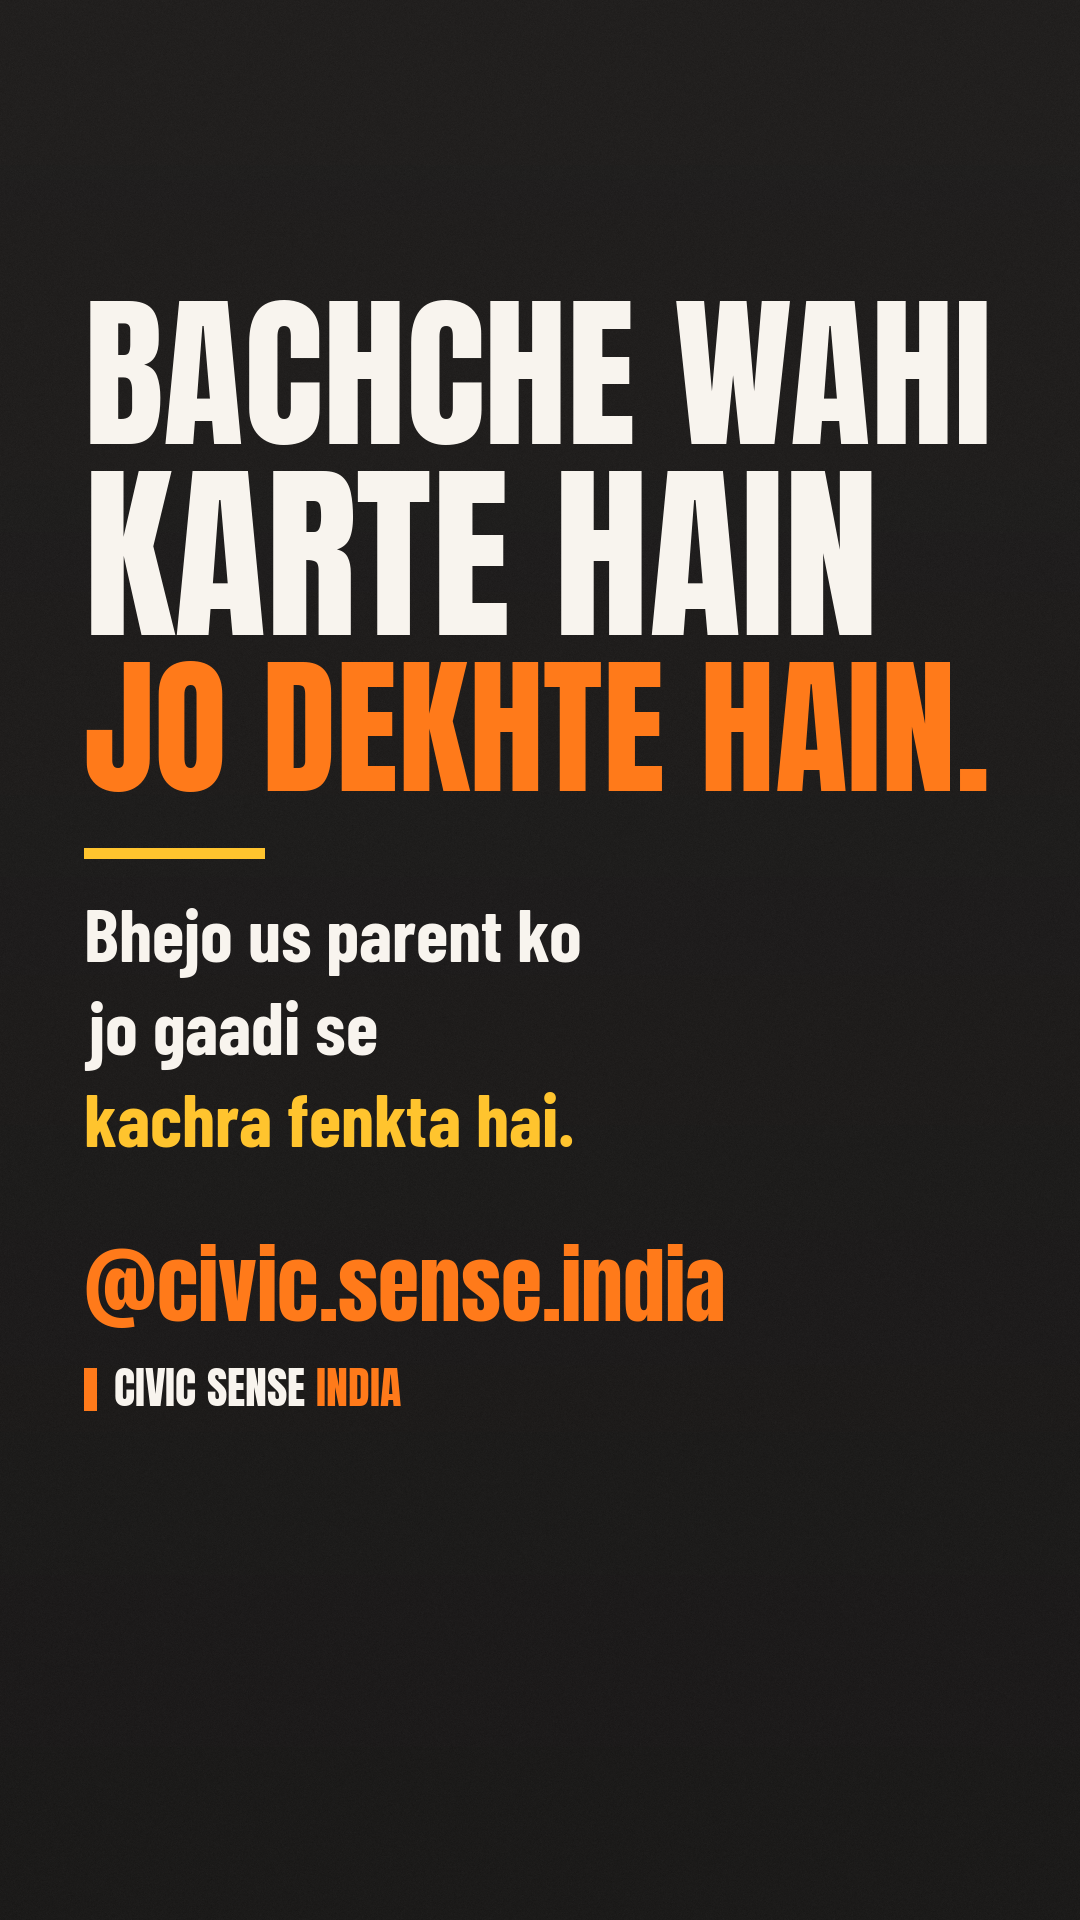
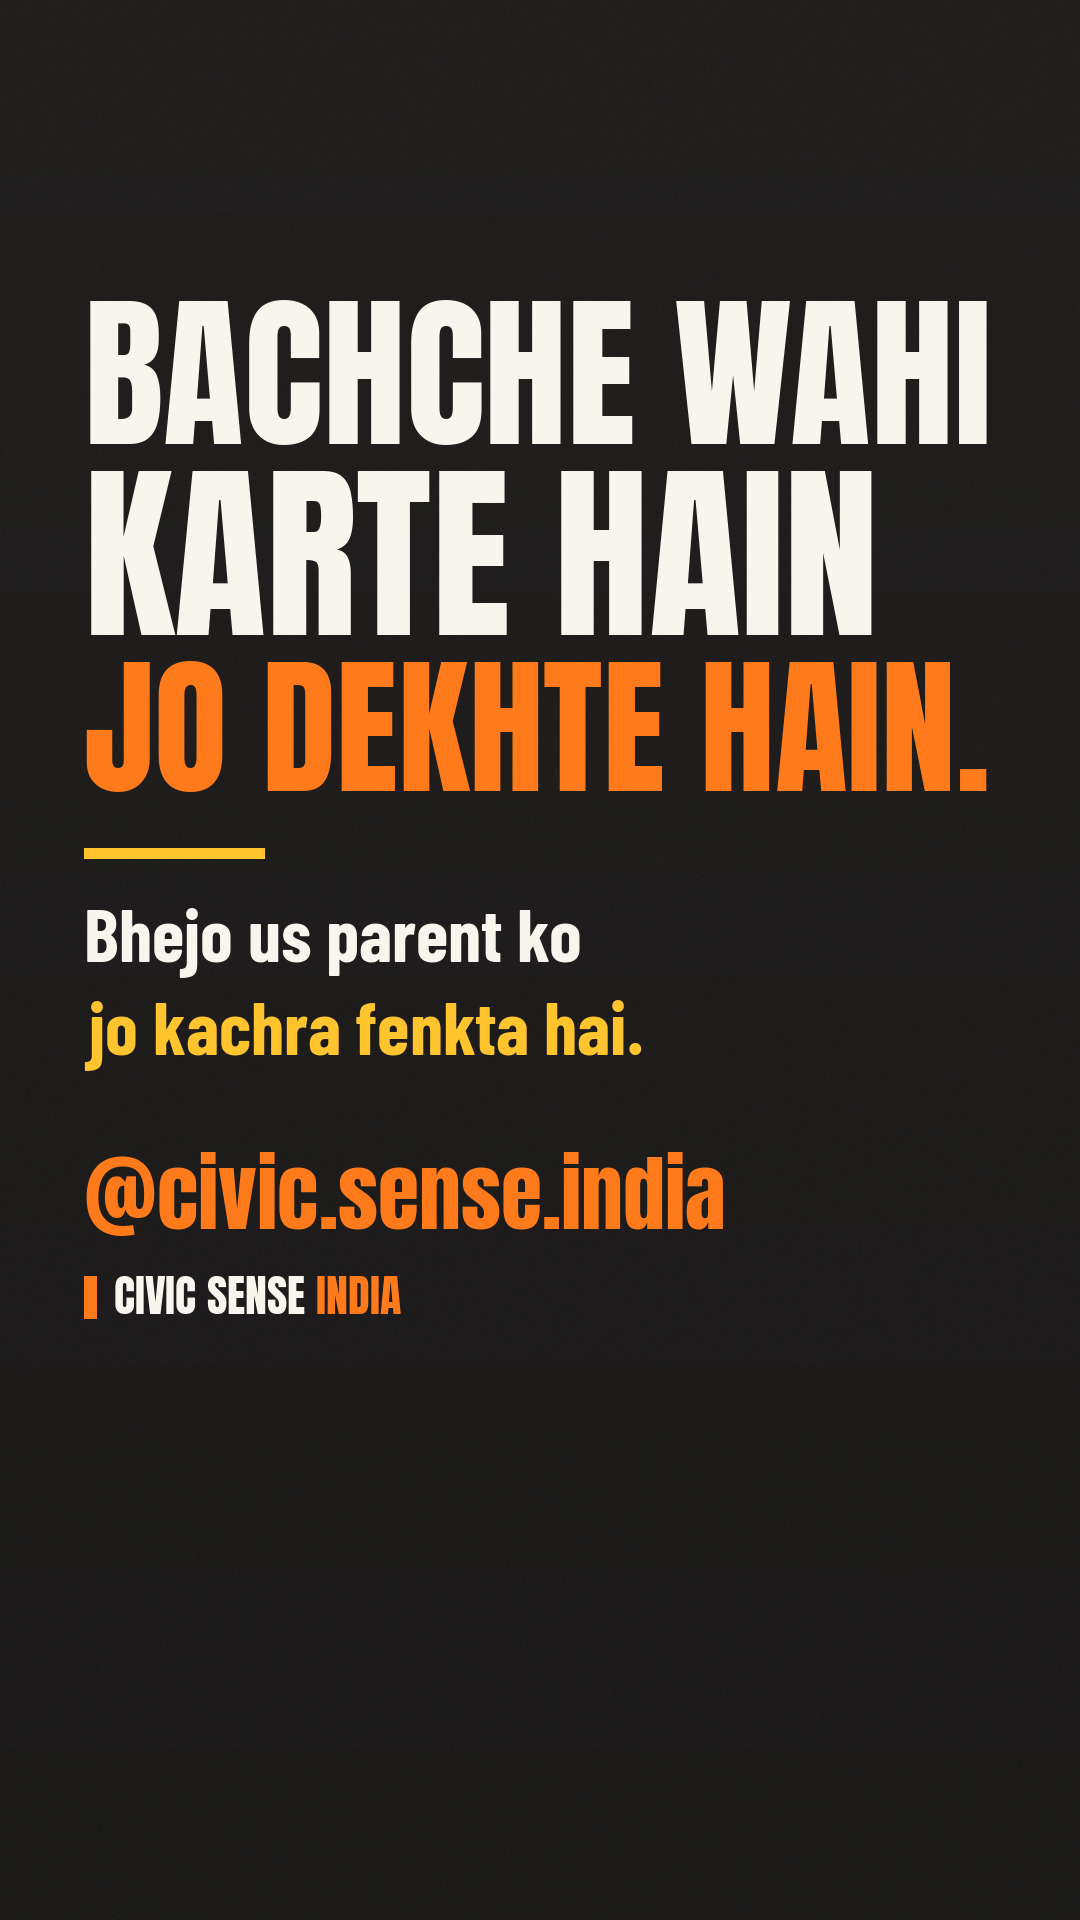
Shorten end card text for reel 06
Claude-Session: https://claude.ai/code/session_01C6UJZVZTRF9V9m7drt3noW

Changed region(s): [[0.0611, 0.5, 0.6722, 0.75]]

diff --git a/tools/reels_week29nov.py b/tools/reels_week29nov.py
@@ -11,4 +11,4 @@ end_card([("SHAHAR KO", WHITE), ("CLEAN BANATE HAIN", WHITE), ("LOG.", SAFFRON)]
 d = os.path.join(ROOT, "reels", "06-bachche-dekhte-hain"); os.makedirs(d, exist_ok=True)
 hook_banner("BACHCHA DEKH RAHA HAI.", "Aap kya sikha rahe ho?", os.path.join(d, "hook_banner.png"))
 end_card([("BACHCHE WAHI", WHITE), ("KARTE HAIN", WHITE), ("JO DEKHTE HAIN.", SAFFRON)],
-         [("Bhejo us parent ko", WHITE), ("jo gaadi se", WHITE), ("kachra fenkta hai.", GOLD)], os.path.join(d, "end_card.png"))
+         [("Bhejo us parent ko", WHITE), ("jo kachra fenkta hai.", GOLD)], os.path.join(d, "end_card.png"))
